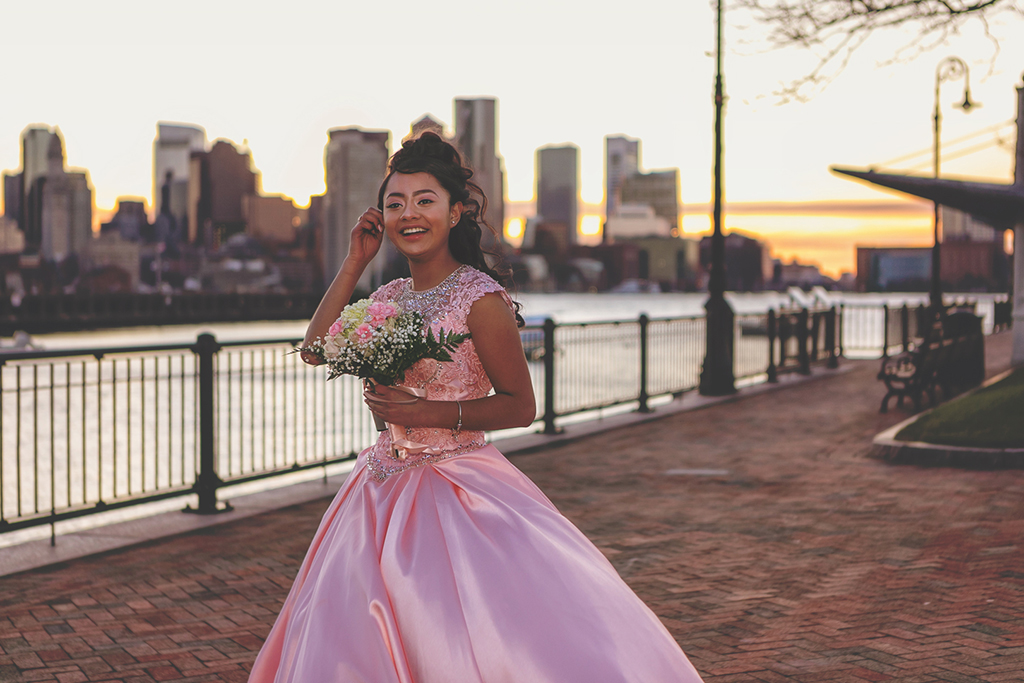
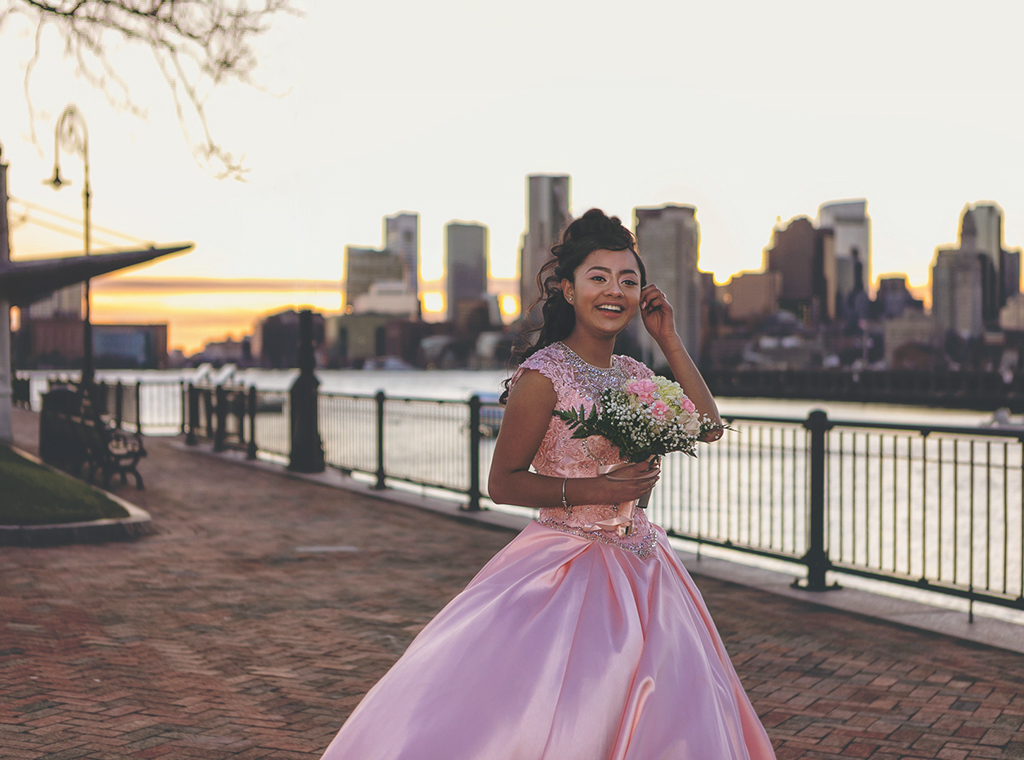
positionig

diff --git a/unit_3/index.html b/unit_3/index.html
@@ -8,19 +8,22 @@
 <body>
 
   <header>	
-	
-		<h1>BER&nbsp;ALMEIDA</h1>	
+
+  	<img src="images/samantha_hero.jpg" alt="Quinceañera" title="Quinceañera en parque East Boston">
+  		<h1 id="stubbornh1">BER&nbsp;ALMEIDA</h1>	
+
 		<!-- <p>Fotos son historias que hablan por si solas</p>
 		<p>fotografias que hablan de lo mejor de las personas</p> -->
-		<h2 id="slogan"> Cámaras no toman lindas fotos, fotógrafos si</h2>
+		<h2 id="slogan"> Las cámaras no toman lindas fotos, los fotógrafos si</h2>
+  		
 
 	 </header>	
 	<section>
-		<img src="images/samantha_hero.jpg" alt="Quinceañera" title="Quinceañera en parque East Boston">	
+		
 	</section>
  
 
-<p>Muchas gracias por visitar nuestra página y apreciar nuestro trabajo. Estamos en Boston, MA desde 2012. Profesional, espontanea pero detalladamente ofrecemos atenta dirección a nuestros clientes para ganar su confianza y de esta forma,  muy natural y relajadamente nos permitan capturar sus emociones, transportarlas a una fotografía y que esos momentos especiales perduren para siempre, así como también puedan disfrutar su celebración o de la sesión fotográfica de principio a fin. Siempre creamos el máximo valor de los recursos a nuestra disposición para lograr excelentes resultados satisfactorios y efectivos. Si se acerca esa fecha especial para ti o tu familia, si necesitas un retrato profesional para tu portalio de negocios, o deseas una sesión fotográfica en esta estapa en la vida de tu familia, por favor contáctanos para una cuota de servicios, para nosotros será un placer poder ser parte de aquellos momentos u ocasiones que son muy importantes para ti. Conoce nuestro extenso portafolio en <a href="http://www.felizityphoto.com">felizityphoto</a> y Siguenos en Instagram @felizityphotos</p>  <br>
+<p>Muchas gracias por visitar nuestra página y apreciar nuestro trabajo. Estamos en Boston, MA desde 2012. Profesional, espontanea pero detalladamente ofrecemos atenta dirección a nuestros clientes para ganar su confianza y de esta forma,  muy natural y relajadamente nos permitan capturar sus emociones, transportarlas a una fotografía y que esos momentos especiales perduren para siempre, así como también puedan disfrutar su celebración o de la sesión fotográfica de principio a fin. <br> Siempre creamos el máximo valor de los recursos a nuestra disposición para lograr excelentes resultados satisfactorios y efectivos. Si se acerca esa fecha especial para ti o tu familia, si necesitas un retrato profesional para tu portalio de negocios, o deseas una sesión fotográfica en esta estapa en la vida de tu familia, por favor contáctanos para una cuota de servicios, para nosotros será un placer poder ser parte de aquellos momentos u ocasiones que son muy importantes para ti. Conoce nuestro extenso portafolio en <a href="http://www.felizityphoto.com">felizityphoto</a> y Siguenos en Instagram @felizityphotos</p>  <br>
 
 
 
@@ -36,6 +39,7 @@
 
 <footer>
 	<a href="mailto:felizitypics@gmail.com" class="contact">Contact me</a>
+	<p class="copyright">COPYRIGHT 2020</p> 
 </footer>
 
 </body>

diff --git a/unit_3/css/style.css b/unit_3/css/style.css
@@ -12,34 +12,31 @@ body {
 
 	}
 
- header {
-	background-color:#030D14;
-	padding: 1px;
-	width: 80%;
-	margin: auto;
-
-
-    }	
-
-section {
+header {
+	background-image: url(unit_3/images/samantha_hero.jpg)
+	margin: auto; 
 	text-align: center;
+	margin-bottom: 30px;
+
+    }
+
+image {
+	position: relative;
+	top: 0px;
+	margin-bottom: 40px;
+}
 
 }
-img {
-	width: 80%;
-	/*text-align: center;*/
-    /*padding-top: 0px;*/
-    padding-bottom: 40px;
-	}
-
 
 h1 {
 	font-family: "Arial", sans-serif;
 	font-size:  50px;
+	position: absolute;
+	top:50px;
 	font-weight: bold;
-	color: #ffffff; 
+	color: #000; 
 	text-align: center;
-	margin-top: 10px;
+	
 	}
 
 h3 {
@@ -70,12 +67,16 @@ footer {
 	width: 80%;
 }      	
 
+
+#stubbornh1{
+	position: relative;
+	}
 #slogan{
 	text-align: center;
-	color: #ffffff;
+	color: 000;
+	
 	font-family: "lato", thin;
 	font-size: 20px;
-	margin-bottom: 20px;
 	}	
 
 	ul  {
@@ -105,10 +106,24 @@ li {
 	}
 
 
-.contact{
+.contact {
 	font-family: "Century Gothic", sans-serif;
-	color: #ffffff;
+	color: #000000;
+	background-color: pink;
+	padding: 5px;
+	border-radius: 4px;
 	text-decoration: none;
 	text-align: center;
-    margin-left: 60px;
 		}
+
+.copyright {
+	font-family: "Century Gothic", sans-serif;
+	color: #ffffff;
+	font-size: 10px;
+	text-decoration: none;
+	text-align: center;
+	padding: 10px;
+    }
+
+
+
